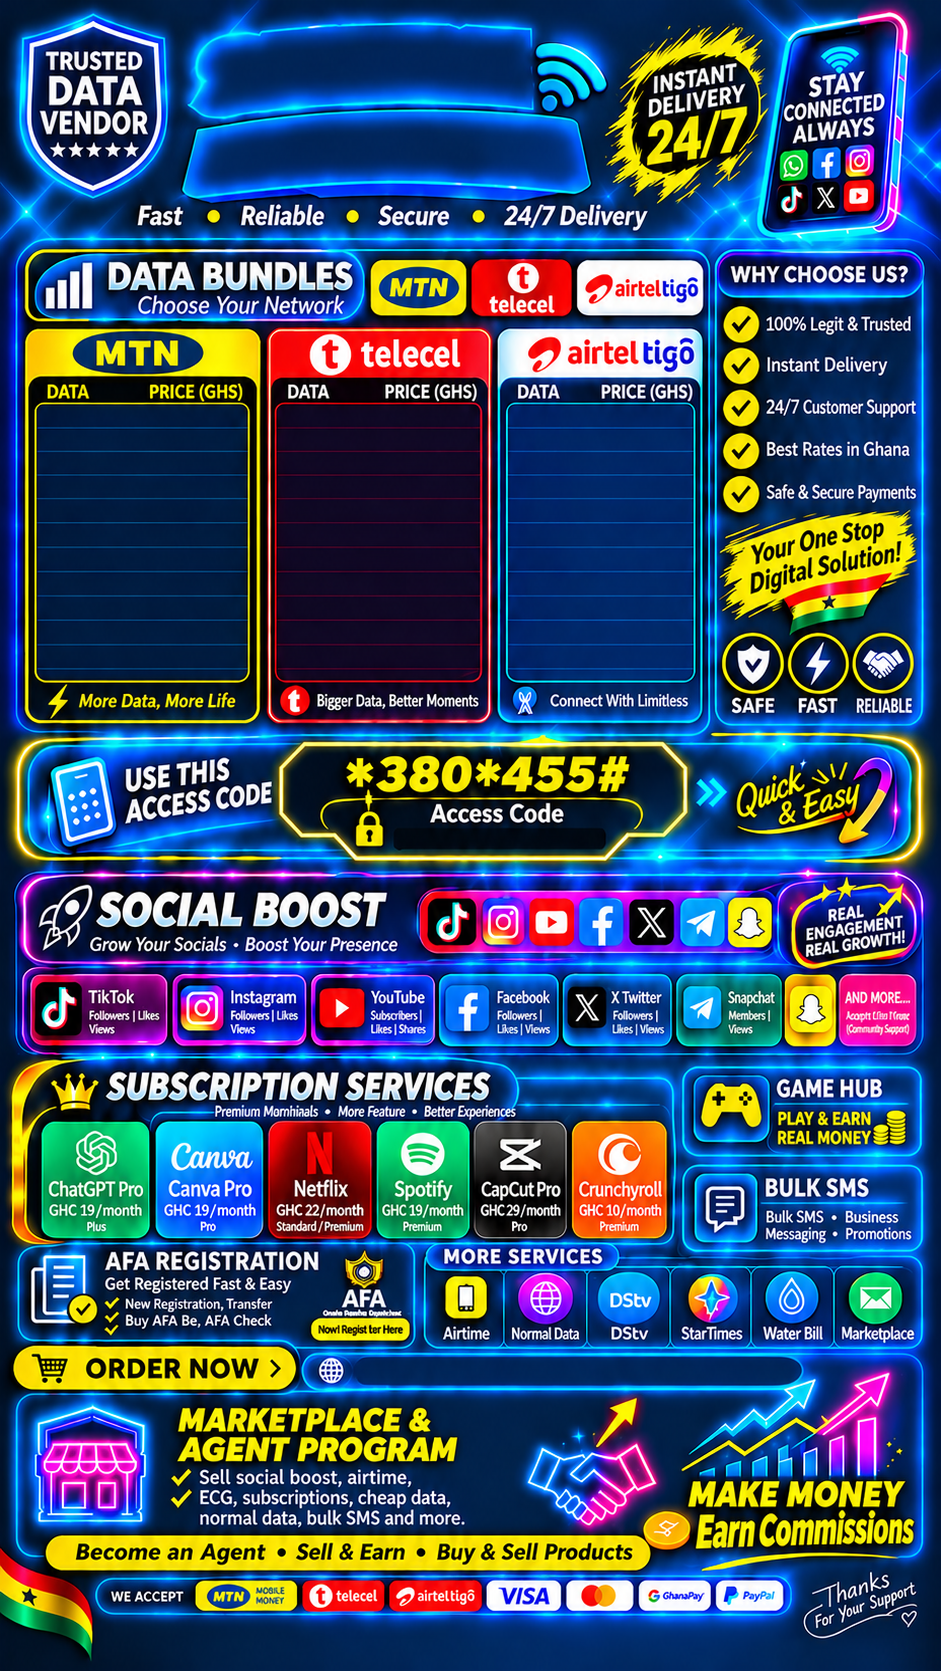
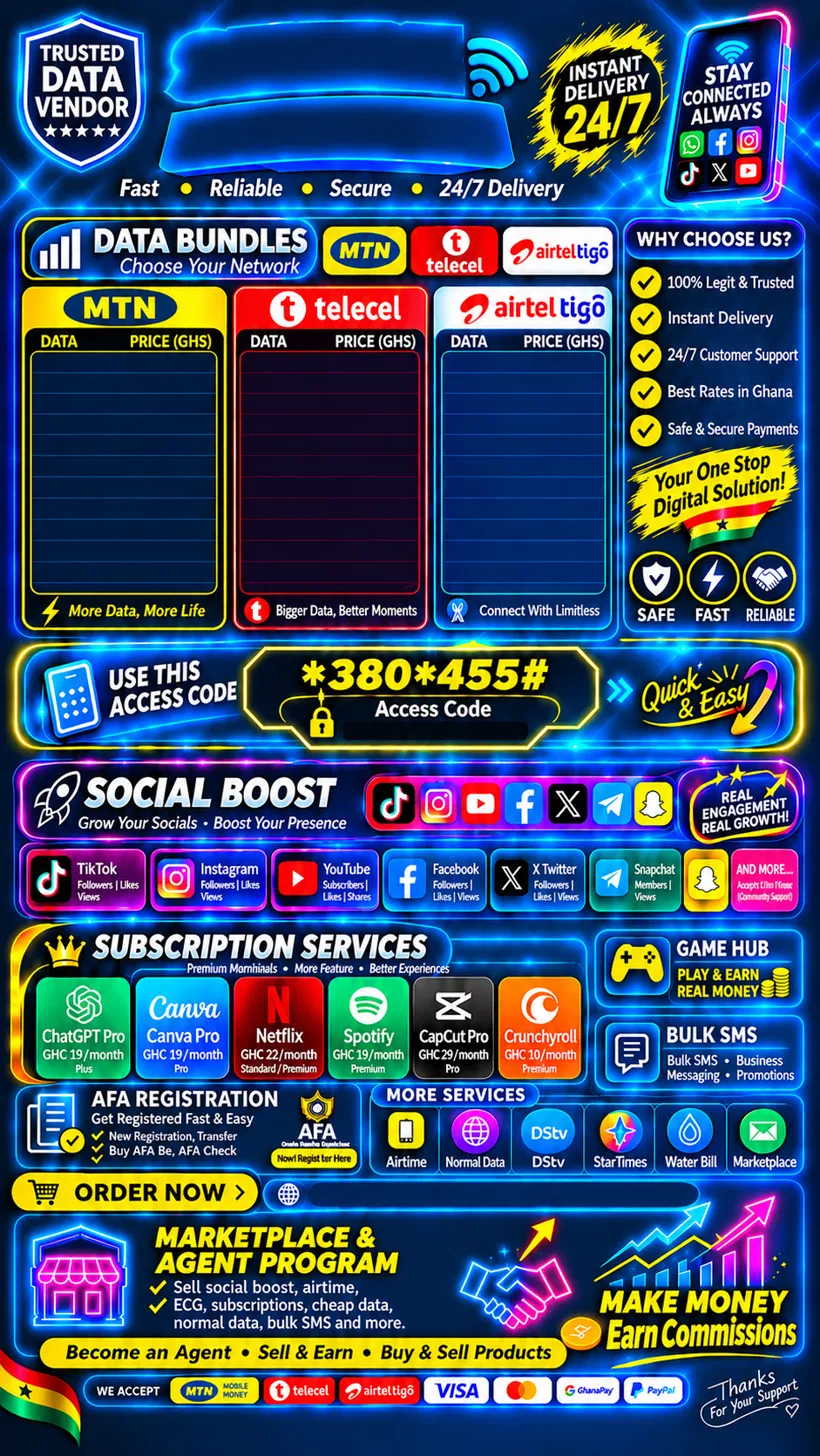
Replace flyer template and add calibration controls

diff --git a/src/components/DynamicFlyer.tsx b/src/components/DynamicFlyer.tsx
@@ -88,6 +88,8 @@ MTN • AirtelTigo • Telecel ⚡ Instant Delivery • 24/7 Support
   const [calibrate, setCalibrate] = useState(false);
   const [sample, setSample] = useState(false);
   const [messageCopied, setMessageCopied] = useState(false);
+  const [regionOverrides, setRegionOverrides] = useState<Record<string, Region>>({});
+  const activeRegions = { ...REGIONS, ...regionOverrides };
   const draw = useCallback(() => {
     const canvas = canvasRef.current;
     if (!canvas) return;
@@ -96,24 +98,24 @@ MTN • AirtelTigo • Telecel ⚡ Instant Delivery • 24/7 Support
     canvas.width = WIDTH * SCALE;
     canvas.height = HEIGHT * SCALE;
     ctx.setTransform(SCALE, 0, 0, SCALE, 0, 0);
-    if (image) ctx.drawImage(image, 0, 0, WIDTH, HEIGHT);
-    else { ctx.fillStyle = "#063578"; ctx.fillRect(0, 0, WIDTH, HEIGHT); }
+    if (!image) return;
+    ctx.drawImage(image, 0, 0, WIDTH, HEIGHT);
     const values = sample ? { name: "DEMO DATA STORE", code: "123456", url: "https://store.example.com", data: { mtn: [{ size_gb: 1, price: 5.5 }, { size_gb: 5, price: 20 }], telecel: [{ size_gb: 2, price: 10 }], airteltigo: [{ size_gb: 3, price: 14 }] } } : { name: storeName, code: accessCode, url: storeUrl, data: packages };
-    const nameRegion = px(REGIONS.storeName);
+    const nameRegion = px(activeRegions.storeName);
     drawStoreName(ctx, values.name, nameRegion);
-    const codeRegion = px(REGIONS.accessCode);
+    const codeRegion = px(activeRegions.accessCode);
     ctx.save(); ctx.textAlign = "center"; ctx.textBaseline = "middle"; ctx.font = `700 ${fit(ctx, values.code || "—", codeRegion.width, 20, 10, "700 SIZEpx Arial, sans-serif")}px Arial, sans-serif`; ctx.fillStyle = "#fff9a5"; ctx.shadowColor = "#ffe600"; ctx.shadowBlur = 6; ctx.fillText(values.code || "—", codeRegion.x + codeRegion.width / 2, codeRegion.y + codeRegion.height / 2); ctx.restore();
-    const urlRegion = px(REGIONS.storeUrl);
+    const urlRegion = px(activeRegions.storeUrl);
     ctx.save(); ctx.textAlign = "left"; ctx.textBaseline = "middle"; let url = values.url || ""; let urlSize = fit(ctx, url, urlRegion.width, 16, 9, "600 SIZEpx Arial, sans-serif"); if (ctx.measureText(url).width > urlRegion.width) { url = url.replace(/^https?:\/\//, ""); urlSize = fit(ctx, url, urlRegion.width, 16, 9, "600 SIZEpx Arial, sans-serif"); } ctx.font = `600 ${urlSize}px Arial, sans-serif`; ctx.fillStyle = "#fff"; ctx.fillText(url, urlRegion.x, urlRegion.y + urlRegion.height / 2); ctx.restore();
-    drawRows(ctx, values.data.mtn, px(REGIONS.mtnTable), "#ffe600"); drawRows(ctx, values.data.telecel, px(REGIONS.telecelTable), "#fff"); drawRows(ctx, values.data.airteltigo, px(REGIONS.airteltigoTable), "#fff");
-    if (calibrate) { ctx.save(); ctx.lineWidth = 2; Object.entries(REGIONS).forEach(([key, raw], index) => { const r = px(raw); ctx.strokeStyle = ["#ff00cc", "#00ffcc", "#ffff00", "#ff6600", "#66aaff", "#ffffff"][index] || "#fff"; ctx.strokeRect(r.x, r.y, r.width, r.height); ctx.fillStyle = ctx.strokeStyle; ctx.font = "12px monospace"; ctx.fillText(key, r.x, r.y - 3); }); ctx.restore(); }
-  }, [accessCode, calibrate, image, packages, sample, storeName, storeUrl]);
+    drawRows(ctx, values.data.mtn, px(activeRegions.mtnTable), "#ffe600"); drawRows(ctx, values.data.telecel, px(activeRegions.telecelTable), "#fff"); drawRows(ctx, values.data.airteltigo, px(activeRegions.airteltigoTable), "#fff");
+    if (calibrate) { ctx.save(); ctx.lineWidth = 2; Object.entries(activeRegions).forEach(([key, raw], index) => { const r = px(raw); ctx.strokeStyle = ["#ff00cc", "#00ffcc", "#ffff00", "#ff6600", "#66aaff", "#ffffff"][index] || "#fff"; ctx.strokeRect(r.x, r.y, r.width, r.height); ctx.fillStyle = ctx.strokeStyle; ctx.font = "12px monospace"; ctx.fillText(key, r.x, r.y - 3); }); ctx.restore(); }
+  }, [accessCode, activeRegions, calibrate, image, packages, sample, storeName, storeUrl]);
   useEffect(() => { const img = new Image(); img.crossOrigin = "anonymous"; img.onload = () => setImage(img); img.src = "/flyer-template.png"; }, []);
   useEffect(() => { void document.fonts?.ready.then(draw); }, [draw]);
   const download = () => { const canvas = canvasRef.current; if (!canvas) return; const link = document.createElement("a"); link.download = `${(storeName || "store").toLowerCase().replace(/[^a-z0-9]+/g, "-")}-flyer.png`; link.href = canvas.toDataURL("image/png"); link.click(); };
   const copyMessage = async () => { await navigator.clipboard.writeText(shareMessage); setMessageCopied(true); window.setTimeout(() => setMessageCopied(false), 1800); };
   const share = async () => { const canvas = canvasRef.current; if (!canvas) return; const blob = await new Promise<Blob | null>((resolve) => canvas.toBlob(resolve, "image/png")); if (!blob || !navigator.share) { await copyMessage(); return download(); } const file = new File([blob], `${storeName || "store"}-flyer.png`, { type: "image/png" }); if (navigator.canShare?.({ files: [file] })) await navigator.share({ files: [file], title: `${storeName} flyer`, text: shareMessage }); else { await copyMessage(); download(); } };
-  return <Card className="space-y-4 p-4"><div className="flex flex-wrap items-center justify-between gap-2"><div><h2 className="text-lg font-semibold">Flyer Generator</h2><p className="text-sm text-muted-foreground">Storefront data is drawn directly into the blank flyer regions.</p></div><div className="flex flex-wrap gap-2"><Button variant="outline" onClick={download}><Download className="mr-2 h-4 w-4" />Download PNG</Button><Button onClick={share}><Share2 className="mr-2 h-4 w-4" />Share</Button><Button variant={sample ? "default" : "outline"} onClick={() => setSample((value) => !value)}>Sample text</Button><Button variant={calibrate ? "default" : "ghost"} size="icon" onClick={() => setCalibrate((value) => !value)} aria-label="Toggle calibration"><SlidersHorizontal className="h-4 w-4" /></Button></div></div><div className="space-y-2"><div className="flex items-center justify-between gap-2"><p className="text-sm font-medium">Share message</p><Button variant="outline" size="sm" onClick={copyMessage}><Copy className="mr-2 h-4 w-4" />{messageCopied ? "Copied" : "Copy message"}</Button></div><textarea readOnly value={shareMessage} rows={10} className="w-full resize-y rounded-md border border-border bg-muted/30 p-3 text-sm leading-relaxed" aria-label="Prefilled flyer share message" /></div><canvas ref={canvasRef} className="mx-auto h-auto w-full max-w-[720px] rounded-lg" aria-label={`${storeName} promotional flyer`} />{calibrate && <pre className="max-h-48 overflow-auto rounded bg-muted p-3 text-xs">{JSON.stringify(REGIONS, null, 2)}</pre>}</Card>;
+  return <Card className="space-y-4 p-4"><div className="flex flex-wrap items-center justify-between gap-2"><div><h2 className="text-lg font-semibold">Flyer Generator</h2><p className="text-sm text-muted-foreground">Storefront data is drawn directly into the blank flyer regions.</p></div><div className="flex flex-wrap gap-2"><Button variant="outline" onClick={download}><Download className="mr-2 h-4 w-4" />Download PNG</Button><Button onClick={share}><Share2 className="mr-2 h-4 w-4" />Share</Button><Button variant={sample ? "default" : "outline"} onClick={() => setSample((value) => !value)}>Sample text</Button><Button variant={calibrate ? "default" : "ghost"} size="icon" onClick={() => setCalibrate((value) => !value)} aria-label="Toggle calibration"><SlidersHorizontal className="h-4 w-4" /></Button></div></div><div className="space-y-2"><div className="flex items-center justify-between gap-2"><p className="text-sm font-medium">Share message</p><Button variant="outline" size="sm" onClick={copyMessage}><Copy className="mr-2 h-4 w-4" />{messageCopied ? "Copied" : "Copy message"}</Button></div><textarea readOnly value={shareMessage} rows={10} className="w-full resize-y rounded-md border border-border bg-muted/30 p-3 text-sm leading-relaxed" aria-label="Prefilled flyer share message" /></div><canvas ref={canvasRef} className="mx-auto h-auto w-full max-w-[720px] rounded-lg" aria-label={`${storeName} promotional flyer`} />{calibrate && <><div className="grid gap-2 sm:grid-cols-2">{Object.entries(REGIONS).map(([key, region]) => { const current = activeRegions[key]; return <div key={key} className="rounded-md border border-border p-2"><p className="mb-1 text-xs font-semibold">{key}</p><div className="grid grid-cols-4 gap-1">{(["x", "y", "width", "height"] as const).map((field) => <label key={field} className="text-[10px] text-muted-foreground">{field}<input type="number" step="0.001" value={current[field]} onChange={(event) => { const value = Number(event.target.value); setRegionOverrides((previous) => ({ ...previous, [key]: { ...(previous[key] ?? region), [field]: value } })); }} className="mt-1 w-full rounded border border-border bg-background px-1 py-1 text-xs text-foreground" /></label>)}</div></div>})}</div><pre className="max-h-48 overflow-auto rounded bg-muted p-3 text-xs">{JSON.stringify(activeRegions, null, 2)}</pre></>}</Card>;
 }
 
 export default DynamicFlyer;
